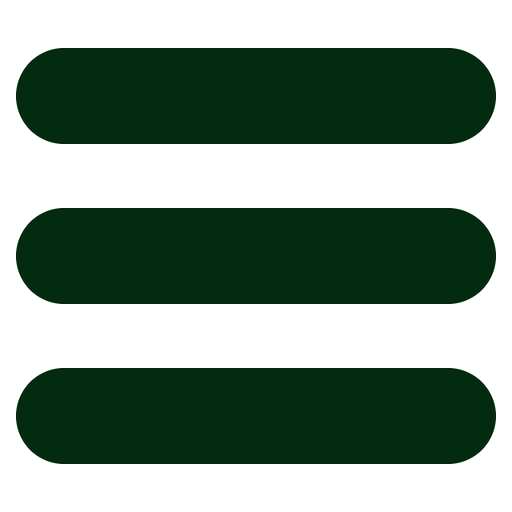
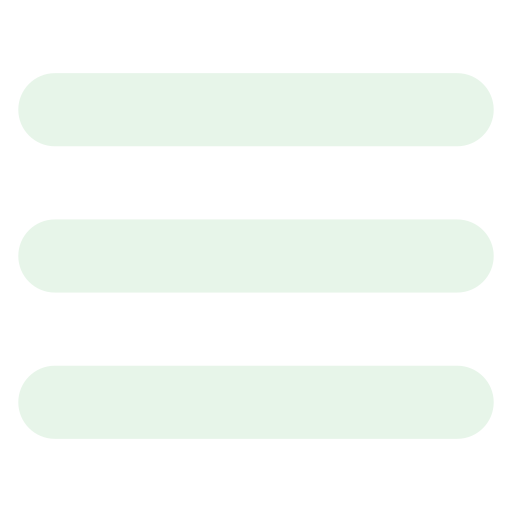
trabalho concluído

diff --git a/home-educacao.html b/home-educacao.html
@@ -31,12 +31,14 @@
 
         <div class="menu-lateral" id="menuLateral">
             <button class="fechar-menu" id="fecharMenu">X</button>
-                <ul>
-                    <li><a href="#"></a></li>
-                    <li><a href="#"></a></li>
-                    <li><a href="#"></a></li>
-                    <li><a href="#"></a></li>
-                </ul>
+            <ul>
+                <li class="borda"><a href="#"><img class="imgHamburguer" src="/img/hamburguer/usuario.png" alt="Usuário">Minha Conta</a></li>
+                <li class="borda"><a href="#"><img class="imgHamburguer" src="/img/hamburguer/lupa.png" alt="Lupa">Pesquise Aqui</a></li>
+                <li class="borda"><a href="#"><img class="imgHamburguer" src="/img/hamburguer/interrogacao.png" alt="Tutorial">Tutoriais</a></li>
+                <li class="borda"><a href="#"><img class="imgHamburguer" src="/img/hamburguer/planilha.png" alt="Planilha">Planilha</a></li>
+                <li class="borda"><a href="#"><img class="imgHamburguer" src="/img/hamburguer/chat.png" alt="Converse Conosco">Converse Conosco</a></li>
+                <li><a href="#"><img class="imgHamburguer" src="/img/hamburguer/like.png" alt="">Favoritos</a></li>
+            </ul>
             </button>
         </div>
 
@@ -85,7 +87,7 @@
                         <div class="noticia">
                             <div class="imagemNoticia">
                                 <a href="detalhes.html?id=${noticia.id}">
-                                    <img src="${noticia.banner}" class="imagem" alt="${noticia.         descricao}">
+                                    <img src="${noticia.banner}" class="imagem" alt="${noticia.descricao}">
                             </div>
                             <div class="texto">
                                 <h1>${noticia.titulo}</h1></a>
@@ -106,6 +108,22 @@
                 } else {
                     document.querySelector(".vejaBtn").style.display = "block";
                 }
+
+                /* Botão Hamburguer */
+                // Selecionando os elementos
+                const menuLateral = document.getElementById('menuLateral');
+                const hamburguerMenu = document.getElementById('hamburguerMenu');
+                const fecharMenu = document.getElementById('fecharMenu');
+
+                // Quando o botão de hambúrguer for clicado, abre o menu
+                hamburguerMenu.addEventListener('click', function () {
+                    menuLateral.classList.add('show');
+                });
+
+                // Quando o botão de fechar for clicado, fecha o menu
+                fecharMenu.addEventListener('click', function () {
+                    menuLateral.classList.remove('show');
+                });
             }
         </script>
     </footer>

diff --git a/style.css b/style.css
@@ -93,7 +93,7 @@ main {
 }
 
 .vejaMais {
-    
+
     width: 200px;
     height: 75px;
     border: solid 4px #022b10;
@@ -110,19 +110,87 @@ main {
     justify-content: center;
 }
 
-.icone-hamburguer {
+
+
+/* Menu Hamburguer */
+.icone-hamburguer-img {
     width: 40px;
     position: fixed;
-    top: 100px;
-    left: 30px;
+    top: 20px;
+    left: 150px;
 }
+
+.menu-lateral ul li a {
+    text-decoration: none;
+    color: white;
+    font-size: 30px;
+    display: flex;
+    align-items: center;
+    gap: 10px;
+}
+
+.borda{
+    border-bottom: 2px solid #e7f5e9;
+    padding-bottom: 30px;
+}
+.menu-lateral ul {
+ padding-left: 0;
+ margin: 0;
+}
+.menu-lateral ul li {
+    list-style-type: none;
+    margin-top: 30px;
+    margin-bottom: 30px;
+}
+
+
+
+.imgHamburguer{
+    width: 50px;
+}
+
+.menu-lateral {
+    display: none;
+    position: fixed;
+    top: 100px;
+    left: 20px;
+    bottom: 50px;
+    width: 300px;
+    height: 700px;
+    background-color: #0a1a37;
+    color: #e7f5e9;
+    padding-top: 60px;
+    z-index: 999;
+    padding: 20px;
+    border-radius: 5px;
+
+    text-align: center;
+}
+
+.menu-lateral.show {
+    display: block;
+}
+
+/* Botão de fechar */
+.fechar-menu {
+    position: absolute;
+    top: 20px;
+    right: 20px;
+    font-size: 30px;
+    color: #e7f5e9;
+    background: none;
+    border: none;
+    cursor: pointer;
+}
+
+/* Fim menu Hamburguer */
 
 .autor,
 .data {
     color: #022b10;
 }
 
-.favoritar{
+.favoritar {
     width: 60px;
     position: fixed;
     right: 30px;
@@ -136,7 +204,8 @@ h1 {
     font-size: 40px;
     color: #034C1C;
 }
-h2{
+
+h2 {
     font-weight: 500;
     text-decoration: underline;
     font-size: xx-large;
@@ -177,7 +246,7 @@ p {
 
 .comentarios {
     display: grid;
-    
+
     background-color: #b3e69e;
 }
 
@@ -185,7 +254,7 @@ p {
     padding: 20px;
     display: flex;
     flex-direction: column;
-    
+
 
 }
 
@@ -224,18 +293,20 @@ input::placeholder {
 }
 
 
-.iconeUsuario{
+.iconeUsuario {
     width: 50px;
 }
 
-.comentariosUsuarios{
+.comentariosUsuarios {
     margin: 0 30px;
 }
+
 .comentariosUsuarios p {
     margin: 0;
     margin-left: 80px;
 }
-.comentarioUsuario{
+
+.comentarioUsuario {
     height: 100px;
     margin: 0 20px;
     border: solid 3px #021d0b;
@@ -274,9 +345,10 @@ input::placeholder {
     text-align: center;
 }
 
-#comentarioInserido{
+#comentarioInserido {
     margin-top: 20px;
 }
+
 /* Detalhes Fim */
 
 /* Media */
